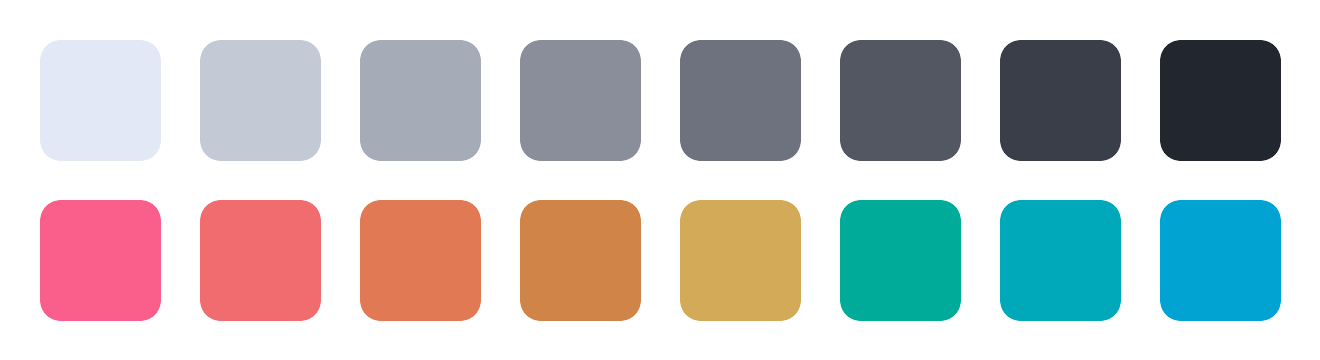
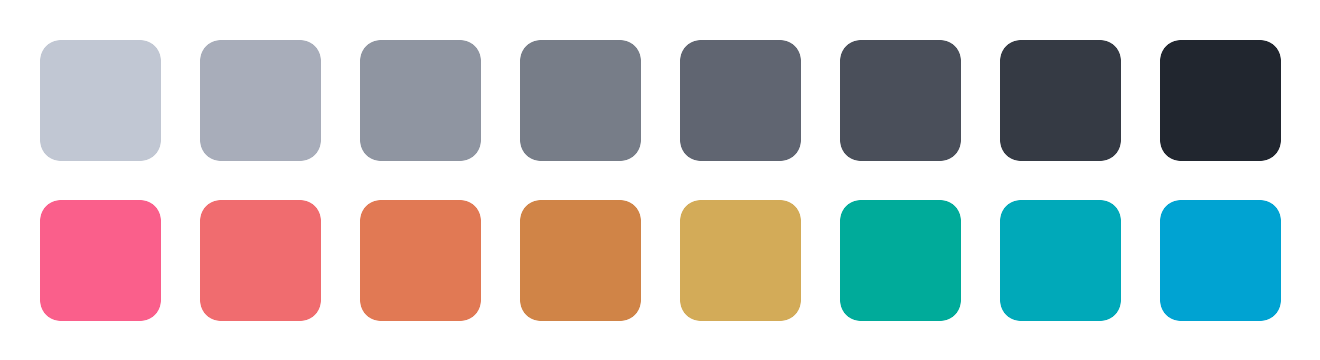
update generated colors

Changed region(s): [[0.0311, 0.0917, 0.2485, 0.4583]]

diff --git a/styles/syntax.less b/styles/syntax.less
@@ -1,11 +1,13 @@
+@import "syntax-variables";
+
 // Language syntax highlighting
 
 .syntax--comment {
-    color: @mono-4;
+    color: @syntax-dim;
     font-style: italic;
 
     .syntax--markup.syntax--link {
-        color: @mono-4;
+        color: @syntax-dim;
     }
 }
 
@@ -31,7 +33,7 @@
     }
 
     &.syntax--operator {
-        color: @mono-3;
+        color: @syntax-fg;
     }
 
     &.syntax--import {
@@ -87,7 +89,7 @@
 }
 
 .syntax--variable {
-    color: @mono-3;
+    color: @syntax-fg;
 
     &.syntax--property {
         color: @hue-6;
@@ -121,7 +123,7 @@
 .syntax--punctuation {
     &.syntax--definition {
         &.syntax--comment {
-            color: @mono-4;
+            color: @syntax-dim;
         }
 
         &.syntax--array,
@@ -130,7 +132,7 @@
         &.syntax--parameters,
         &.syntax--separator,
         &.syntax--seperator {
-            color: @mono-3;
+            color: @syntax-fg;
         }
 
         &.syntax--heading,
@@ -157,7 +159,7 @@
         &.syntax--class,
         &.syntax--inner-class,
         &.syntax--method {
-            color: @mono-3;
+            color: @syntax-fg;
         }
     }
 }
@@ -171,7 +173,7 @@
         color: @hue-3;
     }
 
-    &.syntax-- {
+    &.syntax--function {
         color: @hue-1;
 
         &.syntax--any-method {
@@ -212,17 +214,17 @@
         color: @hue-6;
 
         &.syntax--body {
-            color: @mono-3;
+            color: @syntax-fg;
         }
     }
 
     &.syntax--method,
     &.syntax--method-call {
-        color: @mono-3;
+        color: @syntax-fg;
     }
 
     &.syntax--definition {
-        color: @mono-3;
+        color: @syntax-fg;
     }
 
     &.syntax--link {
@@ -242,7 +244,7 @@
     }
 
     &.syntax--tag {
-        color: @mono-3;
+        color: @syntax-fg;
     }
 }
 
@@ -251,7 +253,7 @@
 }
 
 .syntax--none {
-    color: @mono-3;
+    color: @syntax-fg;
 }
 
 .syntax--invalid {
@@ -322,10 +324,10 @@
 .syntax--source.syntax--css {
     .syntax--property-name,
     .syntax--property-value {
-        color: @mono-4;
+        color: @syntax-dim;
 
         &.syntax--support {
-            color: @mono-3;
+            color: @syntax-fg;
         }
     }
 }
@@ -363,14 +365,14 @@
         color: @hue-5;
 
         & > .syntax--punctuation {
-            color: @mono-3;
+            color: @syntax-fg;
         }
     }
 }
 
 .syntax--source.syntax--js {
     .syntax--keyword.syntax--operator {
-        color: @mono-3;
+        color: @syntax-fg;
         // keywords are definded in https://github.com/atom/language-javascript/blob/master/grammars/javascript.cson
         // search "instanceof" for location
         &.syntax--delete,
@@ -389,7 +391,7 @@
     .syntax--meta.syntax--structure.syntax--dictionary.syntax--json {
         & > .syntax--string.syntax--quoted.syntax--json {
             & > .syntax--punctuation.syntax--string {
-                color: @mono-4;
+                color: @syntax-dim;
             }
             color: @hue-4;
         }

diff --git a/styles/syntax-variables.less b/styles/syntax-variables.less
@@ -1,11 +1,12 @@
-@import "colors-generated.less";
+@import "colors-generated";
 
 // Base colors
-@syntax-fg:     @mono-3;
+@syntax-fg:     @mono-2;
 @syntax-bg:     @mono-8;
+@syntax-dim:    @mono-3;
 @syntax-gutter: @mono-4;
-@syntax-low:    @mono-6;
-@syntax-guide:  @mono-7;
+@syntax-invis:  @mono-5;
+@syntax-guide:  @mono-6;
 @syntax-accent: @hue-2;
 
 // Official Syntax Variables
@@ -18,9 +19,9 @@
 @syntax-background-color:      @syntax-bg;
 
 // Guide colors
-@syntax-wrap-guide-color:          @syntax-low;
+@syntax-wrap-guide-color:          @syntax-invis;
 @syntax-indent-guide-color:        @syntax-guide;
-@syntax-invisible-character-color: @syntax-low;
+@syntax-invisible-character-color: @syntax-invis;
 
 // For find and replace markers
 @syntax-result-marker-color:          fade(@syntax-accent, 17%);

diff --git a/styles/colors-generated.less b/styles/colors-generated.less
@@ -1,16 +1,16 @@
-@mono-1: hsl(221, 49%, 92%);
-@mono-2: hsl(221, 18%, 80%);
-@mono-3: hsl(221, 11%, 68%);
-@mono-4: hsl(221, 8%, 57%);
-@mono-5: hsl(221, 7%, 46%);
-@mono-6: hsl(221, 9%, 35%);
-@mono-7: hsl(220, 12%, 25%);
-@mono-8: hsl(219, 18%, 16%);
-@hue-3: hsl(343, 94%, 68%);
-@hue-5: hsl(359, 81%, 68%);
-@hue-7: hsl(16, 70%, 61%);
-@hue-6: hsl(27, 59%, 55%);
-@hue-4: hsl(41, 58%, 59%);
-@hue-8: hsl(174, 100%, 34%);
-@hue-2: hsl(185, 100%, 36%);
-@hue-1: hsl(194, 100%, 41%);
+@mono-1: #c1c7d3;
+@mono-2: #a8adba;
+@mono-3: #8f95a1;
+@mono-4: #777d88;
+@mono-5: #606571;
+@mono-6: #4a4f5a;
+@mono-7: #353a44;
+@mono-8: #21262f;
+@hue-3: #fa5f8b;
+@hue-5: #f06c6f;
+@hue-7: #e17954;
+@hue-6: #d08447;
+@hue-4: #d3ab58;
+@hue-8: #00ab9a;
+@hue-2: #00a9b9;
+@hue-1: #00a3d2;

diff --git a/index.less b/index.less
@@ -1,6 +1,2 @@
-
-// Atom Syntax Theme: One
-
-@import "styles/syntax-variables.less";
 @import "styles/editor.less";
 @import "styles/syntax.less";

diff --git a/styles/editor.less b/styles/editor.less
@@ -1,3 +1,5 @@
+@import "syntax-variables";
+
 // Editor styles (background, gutter, guides)
 
 atom-text-editor {
